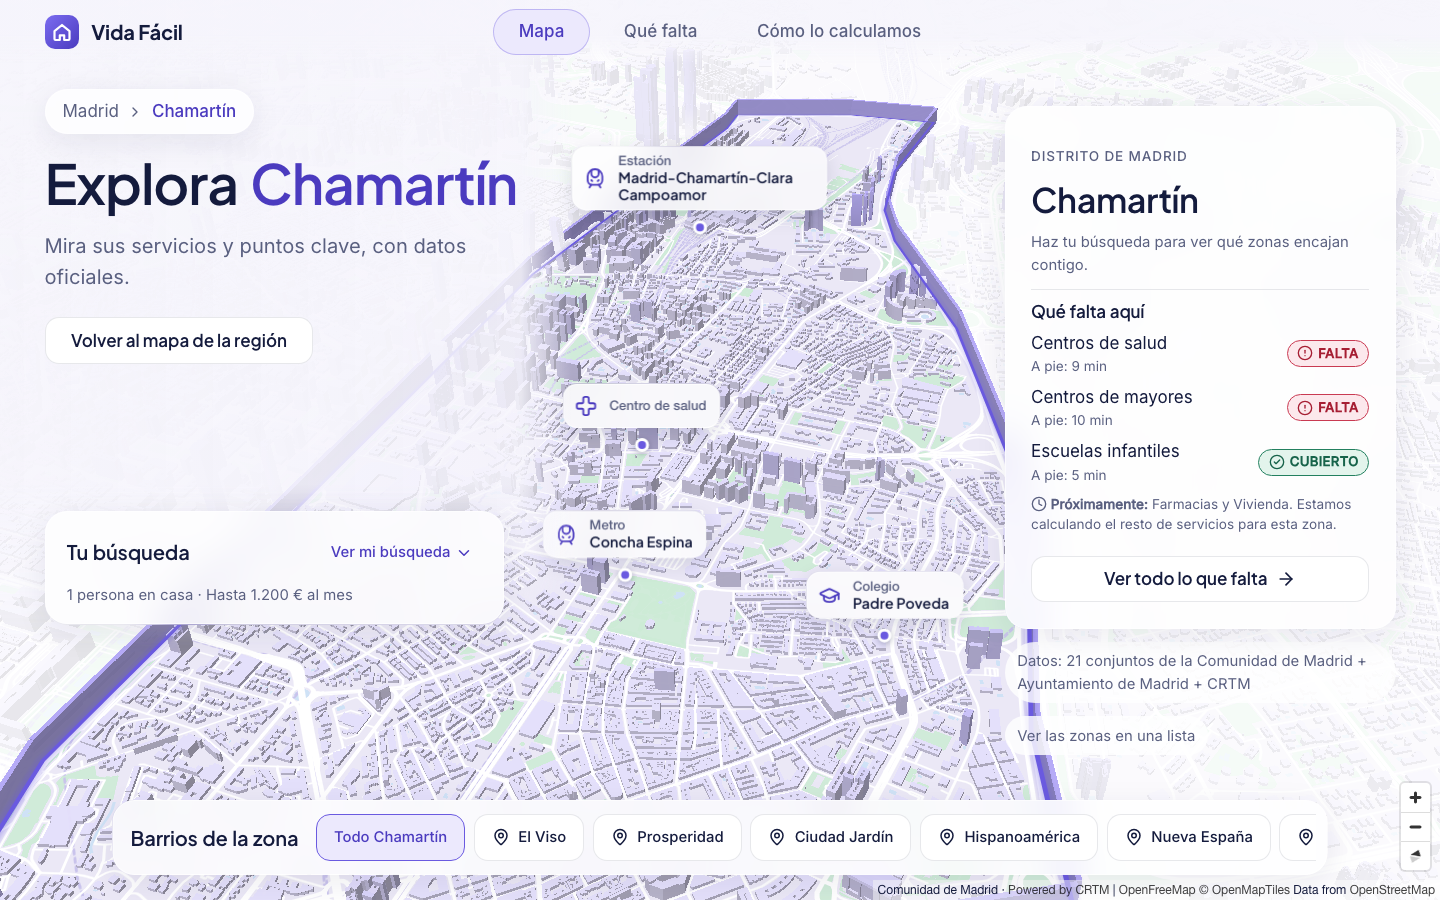
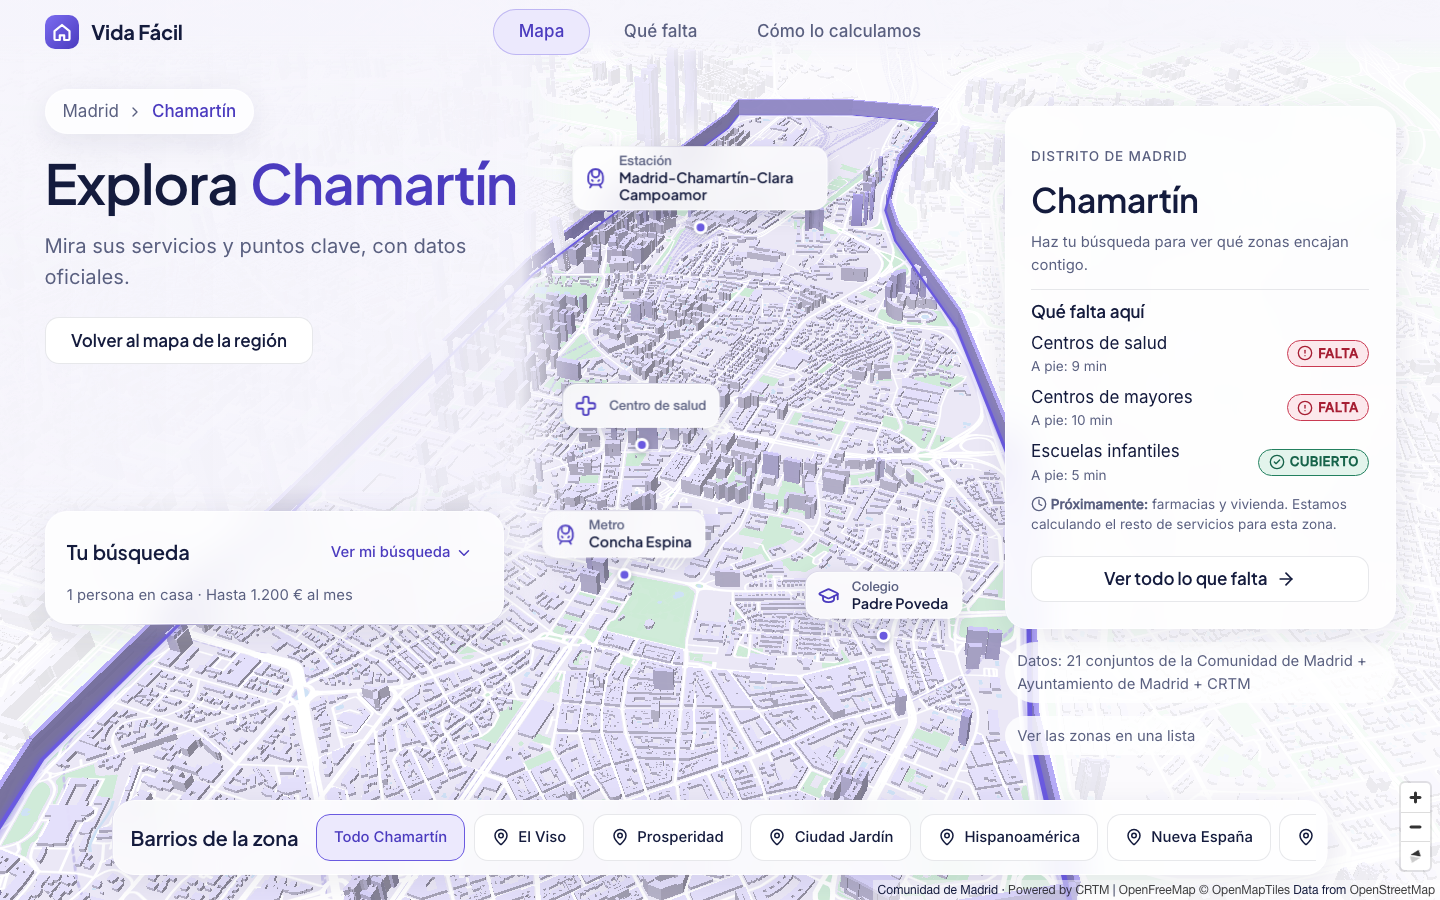
PUB-001 Fase 3 (review): motivo de SIN DATOS siempre, fuentes fijadas al pintar y encabezados sin saltos
- «De dónde sale» decide abierto o cerrado una vez; un cambio de ancho no pisa lo que abrió la persona.
- SIN DATOS cae al motivo UNKNOWN si falta null_reason; el «sin dato» de los minutos se lee con lector.
- Filas como h2; sin lista vacía; «Próximamente: farmacias y vivienda.» en minúscula.
- Tipos generados de gap_row_map_response (GAP-001 F4, aún sin usar); gate y evidencia F8
  repetidos tras el rebase sobre dc2c86a.

diff --git a/apps/web/src/contracts/gap_row_map_response.ts b/apps/web/src/contracts/gap_row_map_response.ts
@@ -1,0 +1,175 @@
+/**
+ * Generated from data/schemas/api/gap_row_map_response.schema.json by scripts/gen-contracts.mjs. Do not edit:
+ * change the Pydantic contract in packages/contracts, run `make schemas`, then
+ * `npm run -w apps/web contracts`.
+ */
+
+export type Cubierto = number;
+export type Falta = number;
+export type Justo = number;
+export type SinDatos = number;
+export type DatasetId = string;
+/**
+ * Published in the Comunidad de Madrid open data portal (counts for DATAMAD)
+ */
+export type IsCmOpenData = boolean;
+export type License = string | null;
+export type Name = string;
+export type Publisher = string;
+/**
+ * Portal page (CM portal when it exists)
+ */
+export type Url = string | null;
+/**
+ * dataset_version label used
+ */
+export type Version = string | null;
+export type Datasets = DatasetRef[];
+export type Direction = "higher_is_better" | "lower_is_better";
+/**
+ * Plain-language name of the indicator
+ */
+export type IndicatorLabel = string;
+export type Label = string;
+/**
+ * Territorial units observations can refer to (superset of AdminLevel).
+ */
+export type TerritoryLevel =
+  | "ccaa"
+  | "municipio"
+  | "distrito"
+  | "barrio"
+  | "seccion_censal"
+  | "codigo_postal"
+  | "zona_estadistica"
+  | "h3_r8"
+  | "h3_r9";
+/**
+ * ratio at or above this -> CUBIERTO
+ */
+export type CubiertoFrom = number;
+/**
+ * ratio to reference below this -> FALTA
+ */
+export type FaltaBelow = number;
+export type Reference = string;
+export type Version1 = string;
+export type ProxyNote = string | null;
+/**
+ * Same indicator for the whole region
+ */
+export type Reference1 = number | null;
+export type ReferenceLabel = string;
+/**
+ * Rows of the per-zone list of what is missing (GAP-001, D-194).
+ */
+export type GapRowKey =
+  "escuela_infantil" | "colegio" | "centro_salud" | "mayores" | "farmacia" | "vivienda";
+export type Unit = string;
+/**
+ * promoteId of /api/v1/geo/admin-units
+ */
+export type AdminUnitId = string;
+export type Code = string;
+export type Confidence = number;
+export type Name1 = string;
+export type NullReason =
+  | "NOT_APPLICABLE"
+  | "SOURCE_NO_COVERAGE"
+  | "SOURCE_MISSING"
+  | "TEMPORARILY_UNAVAILABLE"
+  | "STALE"
+  | "PARSE_ERROR"
+  | "ENTITY_NOT_RESOLVED"
+  | "ESTIMATION_NOT_ALLOWED"
+  | "UNKNOWN";
+/**
+ * Oriented so that above 1 is better than the region
+ */
+export type RatioToReference = number | null;
+export type GapStatus = "FALTA" | "JUSTO" | "CUBIERTO" | "SIN_DATOS";
+export type Value = number | null;
+export type Zones = ZoneGapStatus[];
+export type ApiVersion = string;
+export type DataVersion = string | null;
+export type GeneratedAt = string;
+export type MethodologyVersion = string | null;
+export type RequestId = string;
+export type Warnings = string[];
+
+/**
+ * GET /api/v1/gaps?level=&row=
+ */
+export interface GapRowMapResponse {
+  data: GapRowMap;
+  meta?: Meta;
+  warnings?: Warnings;
+}
+/**
+ * One row of the list for every zone of a level (GET /api/v1/gaps?level=&row=): the map.
+ *
+ * Same value, reference and cut-offs as the row in each zone's list. A row not computed at
+ * this level comes with no zones and a warning in the envelope.
+ */
+export interface GapRowMap {
+  counts: GapStatusCounts;
+  datasets: Datasets;
+  direction: Direction;
+  indicator_label: IndicatorLabel;
+  label: Label;
+  level: TerritoryLevel;
+  method: GapMethod;
+  proxy_note?: ProxyNote;
+  reference: Reference1;
+  reference_label: ReferenceLabel;
+  row: GapRowKey;
+  unit: Unit;
+  zones: Zones;
+}
+export interface GapStatusCounts {
+  cubierto: Cubierto;
+  falta: Falta;
+  justo: Justo;
+  sin_datos: SinDatos;
+}
+/**
+ * Provenance of a result: the dataset, who publishes it and where to open it.
+ */
+export interface DatasetRef {
+  dataset_id: DatasetId;
+  is_cm_open_data: IsCmOpenData;
+  license?: License;
+  name: Name;
+  publisher: Publisher;
+  url?: Url;
+  version?: Version;
+}
+/**
+ * How rows are classified: value / regional reference against declared cut-offs.
+ */
+export interface GapMethod {
+  cubierto_from: CubiertoFrom;
+  falta_below: FaltaBelow;
+  reference: Reference;
+  version: Version1;
+}
+/**
+ * One zone of a row map: the status that colours it and the value behind it.
+ */
+export interface ZoneGapStatus {
+  admin_unit_id: AdminUnitId;
+  code: Code;
+  confidence: Confidence;
+  name: Name1;
+  null_reason?: NullReason | null;
+  ratio_to_reference?: RatioToReference;
+  status: GapStatus;
+  value: Value;
+}
+export interface Meta {
+  api_version?: ApiVersion;
+  data_version?: DataVersion;
+  generated_at?: GeneratedAt;
+  methodology_version?: MethodologyVersion;
+  request_id?: RequestId;
+}

diff --git a/apps/web/src/components/zone/GapRowItem.tsx b/apps/web/src/components/zone/GapRowItem.tsx
@@ -1,8 +1,11 @@
+"use client";
+
 import { ExternalLink, Footprints } from "lucide-react";
+import { useState } from "react";
 
 import type { GapRow } from "@/contracts/zone_gap_list_response";
 import { confidenceText } from "@/lib/confidence";
-import { gapFigures, NULL_REASON, ROW_MEASURE, walking, walkingText, WALK_TO } from "@/lib/gaps";
+import { GAP_STATUS, gapFigures, NULL_REASON, ROW_MEASURE, walking, walkingText, WALK_TO } from "@/lib/gaps";
 import { datasetLines, sortDatasets } from "@/lib/provenance";
 
 import GapBadge from "./GapBadge";
@@ -35,7 +38,10 @@ function WalkingFigure({ row }: { row: GapRow }) {
       <dt>
         <Footprints size={16} aria-hidden="true" /> {to ? `${TEXT.walk} ${to}` : extra.label}
       </dt>
-      <dd title={extra.value === null && extra.null_reason ? NULL_REASON[extra.null_reason] : undefined}>{walkingText(extra)}</dd>
+      <dd>
+        {walkingText(extra)}
+        {extra.value === null && <span className="visually-hidden"> ({NULL_REASON[extra.null_reason ?? "UNKNOWN"]})</span>}
+      </dd>
     </div>
   );
 }
@@ -43,13 +49,16 @@ function WalkingFigure({ row }: { row: GapRow }) {
 /** One row of «Qué falta»: status, value against the region, walking minutes, confidence and sources. */
 export default function GapRowItem({ row, zoneName }: { row: GapRow; zoneName: string }) {
   const figures = gapFigures(row.indicator.value, row.reference);
-  const reason = row.indicator.value === null ? row.indicator.null_reason : null;
+  const reason =
+    row.indicator.value === null ? NULL_REASON[row.indicator.null_reason ?? "UNKNOWN"] : row.status === "SIN_DATOS" ? GAP_STATUS.SIN_DATOS.help : null;
   const confidence = confidenceText(row.indicator.confidence);
+  // Fixed once, so a resize never closes what the person opened
+  const [sourcesOpen] = useState(wideScreen);
 
   return (
     <li className={`glass ${styles.row}`}>
       <div className={styles.head}>
-        <h3>{row.label}</h3>
+        <h2>{row.label}</h2>
         <GapBadge status={row.status} />
       </div>
       <p className={styles.measure}>{ROW_MEASURE[row.row]}</p>
@@ -66,7 +75,7 @@ export default function GapRowItem({ row, zoneName }: { row: GapRow; zoneName: s
         <WalkingFigure row={row} />
       </dl>
 
-      {reason && <p className={styles.reason}>{NULL_REASON[reason]}</p>}
+      {reason && <p className={styles.reason}>{reason}</p>}
       {row.indicator.value !== null && (
         <p className={styles.confidence} title={confidence.help}>
           <span className="visually-hidden">{TEXT.confidence}</span>
@@ -79,7 +88,7 @@ export default function GapRowItem({ row, zoneName }: { row: GapRow; zoneName: s
         </p>
       )}
 
-      <details className={styles.sources} open={wideScreen()}>
+      <details className={styles.sources} open={sourcesOpen}>
         <summary>
           {TEXT.sources} {sourcesCount(row.datasets.length)}
         </summary>

diff --git a/apps/web/src/components/zone/ZoneGapsView.tsx b/apps/web/src/components/zone/ZoneGapsView.tsx
@@ -120,11 +120,13 @@ function ZoneGaps({ level, code }: { level: ZoneLevel; code: string }) {
           </Button>
         </div>
       </header>
-      <ul className={styles.rows}>
-        {sortRows(rows).map((row) => (
-          <GapRowItem key={row.row} row={row} zoneName={zone.name} />
-        ))}
-      </ul>
+      {rows.length > 0 && (
+        <ul className={styles.rows}>
+          {sortRows(rows).map((row) => (
+            <GapRowItem key={row.row} row={row} zoneName={zone.name} />
+          ))}
+        </ul>
+      )}
       <PendingRows warnings={gaps.data.warnings} className={styles.pending} />
       <Legend />
     </>

diff --git a/apps/web/src/components/zone/PendingRows.tsx b/apps/web/src/components/zone/PendingRows.tsx
@@ -15,7 +15,7 @@ const TEXT = {
 export default function PendingRows({ warnings, className }: { warnings: readonly string[] | undefined; className?: string }) {
   const rows = pendingRows(warnings);
   if (rows.length === 0) return null;
-  const names = new Intl.ListFormat("es", { type: "conjunction" }).format(rows.map((key) => ROW_NAME[key]));
+  const names = new Intl.ListFormat("es", { type: "conjunction" }).format(rows.map((key) => ROW_NAME[key].toLowerCase()));
   return (
     <p className={className}>
       <Clock size={16} aria-hidden="true" /> <strong>{TEXT.soon}:</strong> {names}. {TEXT.pending}

diff --git a/apps/web/src/components/zone/GapRowItem.module.css b/apps/web/src/components/zone/GapRowItem.module.css
@@ -13,7 +13,7 @@
   gap: var(--space-3);
 }
 
-.head h3 {
+.head h2 {
   font-size: var(--text-lg);
   font-weight: 600;
 }

diff --git a/evidence/map-004/2026-11-11/summary.md b/evidence/map-004/2026-11-11/summary.md
@@ -495,7 +495,7 @@ Textos provisionales:
 
 # PUB-001 Fase 3 (F8) — «Qué falta» completo contra `/gaps` (2026-11-11)
 
-Sobre `origin/claude/sprint-1-public` en `9ced17b` (GAP-001 F1–F3b). Checkpoint del 14 nov. Datos reales de `GET /api/v1/gaps/{level}/{code}` en la API 8011: las 200 zonas (179 municipios y 21 distritos) traen las 6 filas.
+Hecha sobre `9ced17b` (GAP-001 F1–F3b) y rebasada sobre `dc2c86a` (DATA-022 F1 y GAP-001 F4); el gate y `f8_que_falta.json` son de después del rebase (ya sale «La Acebeda» con su nombre oficial). Checkpoint del 14 nov. Datos reales de `GET /api/v1/gaps/{level}/{code}` en la API 8011: las 200 zonas (179 municipios y 21 distritos) traen las 6 filas.
 
 ## Qué hay
 - **Pestaña «Qué falta»** (`/que-falta?zona=distrito/2807905`):
@@ -511,12 +511,13 @@ Sobre `origin/claude/sprint-1-public` en `9ced17b` (GAP-001 F1–F3b). Checkpoin
 - **Pestaña «Qué falta» desde una zona:** abre la lista de esa zona (`tabHref`).
 - **Funciones puras con tests:** `pendingRows`, `sortRows`, `gapFigures`, `walking`/`walkingText`, `gapsHref`/`parseZoneParam` (`lib/gaps.ts`), `confidenceText` (`lib/confidence.ts`), `formatNumber` (`lib/format.ts`) y `tabHref` (`lib/nav.ts`).
 - **`capture.mjs`:** opción `--full` para capturar la página entera.
+- **Tipos:** `src/contracts/gap_row_map_response.ts` generado del schema nuevo de A (GAP-001 F4); aún sin usar.
 
 ## Comprobado con Playwright (`f8_que_falta.json`)
 - **Chamartín, 1440 px:** 6 filas. Centros de salud FALTA (0,47 frente a 0,59; a pie, 9 min), mayores FALTA (0,25 / 0,39; 10 min), escuelas infantiles CUBIERTO (5 min), colegios CUBIERTO (6 min), farmacias CUBIERTO (3 min) y vivienda SIN DATOS con su motivo. 4 enlaces de fuentes por fila. axe (WCAG 2.2 A/AA): 0 fallos.
 - **Chamartín, 390 px:** fuentes plegadas, se abren al tocar; sin desplazamiento horizontal; axe: 0 fallos.
 - **La Acebeda:** «más de 60 min» en cuatro filas y escuelas infantiles SIN DATOS con «Este dato no tiene sentido en esta zona.» (`f8_que_falta_acebeda_desktop.png`).
-- **Filas pendientes** (respuesta real de Chamartín sin farmacia ni vivienda y con sus dos avisos, con `page.route`): quedan 4 filas, ninguna SIN DATOS de más, y la línea «Próximamente: Farmacias y Vivienda…» en la pestaña y en la tarjeta (`f8_pendientes_*`).
+- **Filas pendientes** (respuesta real de Chamartín sin farmacia ni vivienda y con sus dos avisos, con `page.route`): quedan 4 filas, ninguna SIN DATOS de más, y la línea «Próximamente: farmacias y vivienda…» en la pestaña y en la tarjeta (`f8_pendientes_*`).
 - **Zona:** mini lista «Centros de salud · A pie: 9 min · FALTA»…; la pestaña «Qué falta» y «Ver todo lo que falta» llevan a `/que-falta?zona=distrito/2807905`.
 - **Sin zona y teclado:** con «Chamar», Tab lleva el foco a «Chamartín» e Intro abre su lista.
 - **Errores:** `?zona=barrio/123` y `distrito/2807999` (404) dicen «No encontramos esa zona…»; el segundo, con «Elegir otra zona». El único error de consola es el 404 esperado del navegador.
@@ -538,10 +539,19 @@ Todas sin errores en la consola (`c_capture.json`, `c4_capture.json`). Las defin
 ## Gate (`f8_gate.txt`)
 | Comando | Resultado |
 |---|---|
-| `make lint typecheck test-unit` | 0 (286 pytest, 167 vitest) |
+| `make lint typecheck test-unit` | 0 (313 pytest, 167 vitest), tras el rebase |
 | `npm run -w apps/web lint` / `typecheck` | 0 |
 | `npm run -w apps/web test` | 19 ficheros, 167 tests (nuevos: `confidence`, y más casos en `gaps`, `format` y `nav`) |
 | `npm run -w apps/web build` | 0 |
+
+## Revisión (agente `reviewer`, sin bloqueantes) y lo corregido
+- «De dónde sale» se abre o se cierra una sola vez al pintar la fila: cambiar el ancho de la ventana ya no pisa lo que abrió la persona.
+- SIN DATOS siempre con motivo: si falta `null_reason`, el de `UNKNOWN`.
+- El motivo de un «sin dato» de minutos a pie se lee también con lector de pantalla (antes solo en `title`).
+- Encabezados sin saltos: cada fila es un `h2`, como «Cómo leer esta lista».
+- Sin `<ul>` vacío si la API no trae ninguna fila calculada.
+- «Próximamente: farmacias y vivienda.»: los nombres van en minúscula en mitad de la frase.
+- Pendiente, sin impacto hoy: una fila que la API no puede clasificar (`UnclassifiableError`) desaparece sin aviso visible; hoy no ocurre en ninguna de las 200 zonas.
 
 ## Para D (textos provisionales)
 - «Cambiar de zona», «Elegir otra zona», «Cómo leer esta lista» y «De dónde sale: {n} conjuntos de datos».
